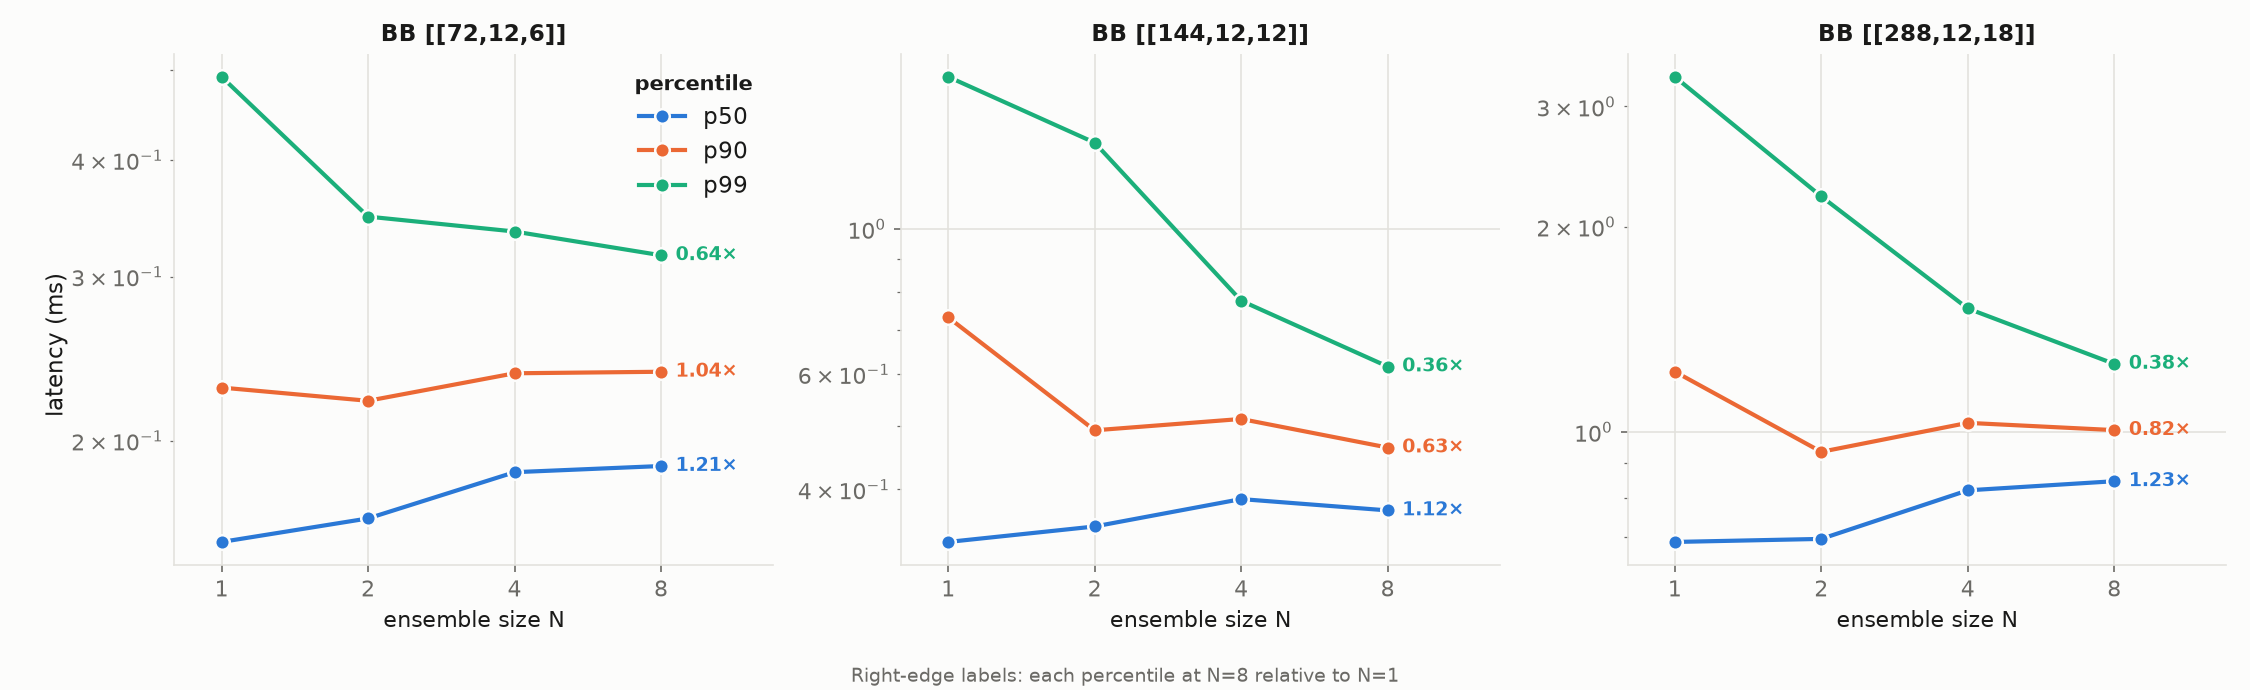
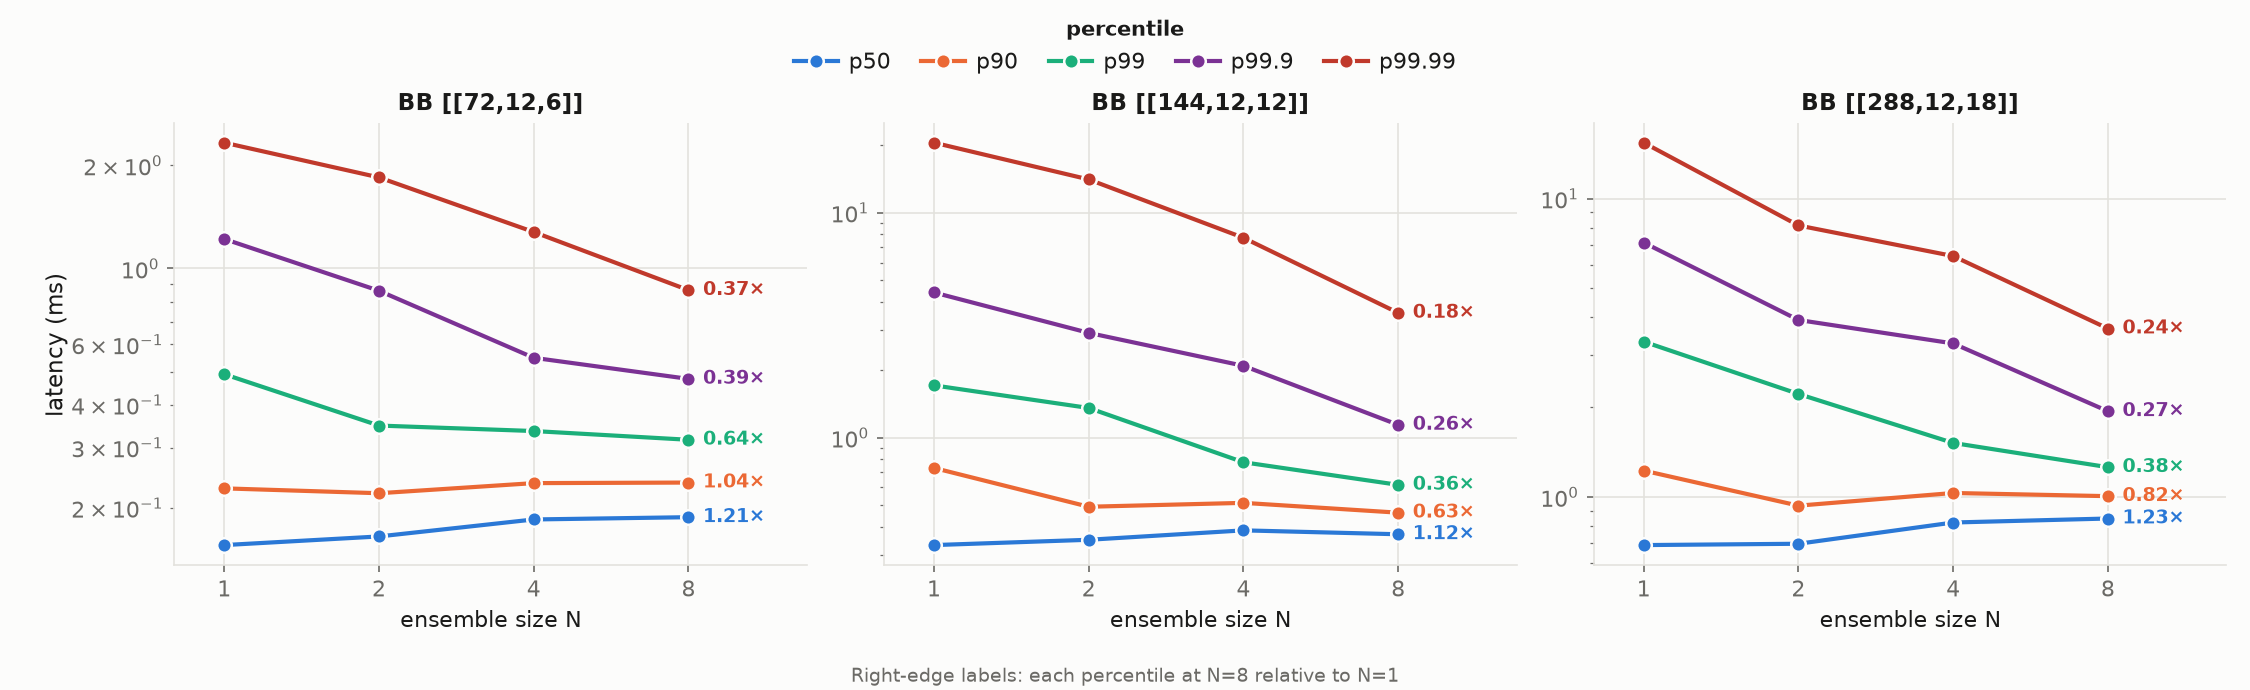
Addressed reviewer comments

diff --git a/docs/sphinx/examples_rst/qec/nv_qldpc_gamma_ensemble_user_guide.rst b/docs/sphinx/examples_rst/qec/nv_qldpc_gamma_ensemble_user_guide.rst
@@ -1,0 +1,108 @@
+.. _ensemble_gamma_user_guide:
+
+Improving Relay BP Decoding With Gamma Ensembles
+=================================================
+
+The NV-qLDPC Relay BP decoder supports ensembles of independent gamma distribution trajectories (N "lanes"), run in parallel on a single GPU. When any lane has satisfied the stopping criterion, then the decoder may exit early. This can lead to significantly improved decoding decoding performance as increased parallelism allows for faster exploration of decoding solutions, and therefore lower latency for hard-to-decode syndromes which may stall Relay BP. 
+
+While setting multiple lanes of ensembled gammas can reduce the number of Relay BP iterations needed to converge to a solution, it can also lead to increased time per iteration; each leg of Relay BP synchronizes between lanes to check for convergence. Multiple lanes share a fixed GPU allocation, so as the number of edges in the Tanner graph increases, the GPU eventually must serialize the execution of each lane at each iteration, and then block for every lane to complete. These competing effects offset each other to some extent, so the mean latency per iteration may or may not be lower than the un-ensembled mean latency. However, the main benefit of ensembling is that the decoder can accept the minimum number of iterations to converge over some lanes, which means that slow-converging lanes are less likely to dominate the overall decoding time. Thereforre, the distribution of decode latencies becomes narrower. This can in turn lead to substantially improved LER under hard deadline constraints, where decoding failures are dominated by deadline misses. We will see below examples of bivariate-bicycle codes (BB) seeing up to 50-90x improved logical error rate, depending on the code and deadline.
+
+The first experiment we perform is to investigate the competing effects of reducing the mean number of iterations to converge versus increasing the time per iteration; we build the Z-component of the circuit-level detector error model (DEM) (i.e. the Z-stabilizer detectors only) for the bivariate-bicycle (BB) codes ``[[72,12,6]]``, ``[[144,12,12]]`` and ``[[288,12,18]]`` and, for each, construct the decoder with ``gamma_ensemble_size`` set to N in {1, 2, 4, 8}. We then decode many sampled syndromes, timing each ``decode()`` call and reading back the number of Relay BP iterations the decoder used to converge:
+
+.. code-block:: python
+
+    import cudaq_qec as qec
+
+    # H, error_rates, syndromes come from a circuit-level DEM of the code
+    decoder = qec.get_decoder(
+        "nv-qldpc-decoder", H, error_rate_vec=error_rates,
+        use_sparsity=True, bp_method=3, composition=1, max_iterations=50,
+        gamma0=0.125, gamma_dist=[-0.24, 0.66], clip_value=200.0, repeatable=True,
+        proc_float="fp32", gamma_ensemble_size=N,    # sweep N in {1, 2, 4, 8}
+        srelay_config={"pre_iter": 1, "num_sets": 600,
+                       "stopping_criterion": "FirstConv"},
+        opt_results={"num_iter": True})              # return the iteration count
+
+    for syndrome in syndromes:
+        result = decoder.decode(syndrome)            # timed for the per-iteration cost
+        num_iter = result.opt_results["num_iter"]    # Relay BP iterations to converge
+
+Performance Comparison
+++++++++++++++++++++++
+
+All experiments below use the same circuit-level noise and decoder settings, and are run on a single GB200 using CUDA-Q QEC 0.7.0. The parameters used for each experiment are listed below.
+
+.. list-table:: Decoder and experiment parameters
+   :header-rows: 1
+   :widths: 32 68
+
+   * - Parameter
+     - Value
+   * - GPU
+     - NVIDIA GB200
+   * - Codes
+     - ``[[72,12,6]]``, ``[[144,12,12]]``, ``[[288,12,18]]`` (Z-component DEM)
+   * - Rounds ``r``
+     - 6, 12, 18 for ``[[72,12,6]]``, ``[[144,12,12]]``, ``[[288,12,18]]`` respectively
+   * - Noise model
+     - uniform circuit-level, ``p = 0.002`` 
+   * - Shots
+     - 150,000
+   * - ``bp_method``
+     - 3
+   * - ``composition``
+     - 1
+   * - ``gamma0``
+     - 0.125
+   * - ``gamma_dist``
+     - ``[-0.24, 0.66]`` (for ``[[72,12,6]]``, ``[[144,12,12]]``); ``[-0.161, 0.815]`` (for ``[[288,12,18]]``)
+   * - ``clip_value``
+     - 200.0
+   * - ``max_iterations``
+     - 50
+   * - ``use_sparsity``
+     - True
+   * - ``repeatable``
+     - True
+   * - ``proc_float``
+     - ``"fp32"``
+   * - ``pre_iter``
+     - 1
+   * - ``num_sets``
+     - 600
+   * - ``stopping_criterion``
+     - ``FirstConv``
+
+.. image:: ../../images/relaybp_gamma_ensemble_perf.png
+   :align: center
+   :alt: Iterations to converge, time per iteration, and mean latency versus ensemble size, for several DEMs
+
+As the ensemble size N grows, the median number of iterations to converge (left) falls for every code — more lanes explore more gamma sets in parallel, so the fastest-converging one wins sooner. At N = 8 the median iteration count drops to 0.67×–0.71× of its single-lane value across the three codes. The time per iteration (middle) rises with N — each lane's parity-check rows are spread over co-resident GPU blocks, so a lane must serially process more work per iteration — growing to 1.53×–1.66× at N = 8, largest for the ``[[288,12,18]]`` DEM. The net mean decode latency (right) combines the two effects; here the higher per-iteration cost roughly cancels the iteration savings, so mean latency stays close to its single-lane value at N = 8, ranging from 0.88× to 1.10×.
+
+Latency Distribution
+++++++++++++++++++++
+
+One of the benefits of ensembling is that the latency distribution becomes narrower, leading to more consistent latency for hard-to-decode syndromes. Using the same decoders as above, we now focus on the behavior of the 50th percentile, 90th percentile, and 99th percentile decoding latencies.
+
+.. image:: ../../images/relaybp_latency_percentiles.png
+   :align: center
+   :alt: Latency percentiles (p50, p90, p99.9, p99.99) versus ensemble size N, per code
+
+The worst-case (i.e. p99.99) latency improves with N for every code — at N = 8 it improves by ~2.70× for ``[[72,12,6]]``, ~5.55× for ``[[144,12,12]]`` and ~4.17× for ``[[288,12,18]]``. The median (p50) rises with N (by ~1.12×–1.23× at N = 8), as the per-iteration overhead is paid on decodes that would have converged quickly anyway. 
+
+Logical Error Rate Under Hard Deadlines
++++++++++++++++++++++++++++++++++++++++
+
+The narrower tail can improve logical error rates considerably for decoders under hard deadlines. Suppose each decode must finish within a wall-clock budget ``t``; a decode is a success only if it both finishes within ``t`` and returns the correct logical outcome, so the logical error rate under that deadline is ``LER(t) = P(latency > t or logical error)``. Using the same decoders as above, we record both the per-syndrome latency and whether the decoded logical is correct. The plot below shows the LER versus deadline for un-ensembled Relay BP (i.e. N = 1) and for each ensemble size N; each curve is measured over 150,000 sampled syndromes per configuration at the circuit-level noise strength given above (``p = 0.002``), using the ``FirstConv`` stopping criterion.
+
+.. image:: ../../images/relaybp_hard_deadline_ler.png
+   :align: center
+   :alt: Deadline vs LER — bicycle codes
+
+Ensembling contracts the latency tail for all three codes, resulting in substantially lower LER for certain deadlines: beyond a crossover at the tightest deadlines (where the higher per-iteration cost makes the larger ensembles slightly worse), a larger ensemble misses fewer deadlines at looser budgets and reaches a lower floor. The regime under which ensembling is beneficial for these codes depends on the code and deadline, and likely requires specific tuning based on the problem. Below is a plot of the factor by which each ensemble size lowers LER relative to un-ensembled Relay BP as a function of the deadline ``t``; values above 1 mean a lower LER than N = 1. 
+
+.. image:: ../../images/relaybp_ler_multiplier.png
+   :align: center
+   :alt: LER improvement multiplier over un-ensembled Relay BP versus hard deadline, per code
+
+At the tightest deadlines the larger ensembles are briefly worse (their higher per-iteration cost delays the fastest decodes), but past that crossover a larger ensemble lowers LER substantially — by up to ~41× for ``[[144,12,12]]`` and ~89× for ``[[288,12,18]]`` at deadlines of ~1-5 ms. For those two codes the multiplier then falls back toward N = 1 at loose deadlines, where both the ensemble and N = 1 reach their near-zero logical error floors; for ``[[72,12,6]]`` it settles at ~2×.

diff --git a/docs/sphinx/examples_rst/qec/examples.rst b/docs/sphinx/examples_rst/qec/examples.rst
@@ -11,7 +11,7 @@ Examples that illustrate how to use CUDA-QX for application development are avai
       Circuit-Level QEC <circuit_level_noise.rst>
       Decoding From Stim DEM Text <stim_dem_decoder.rst>
       Decoders <decoders.rst>
-      Improving Relay BP Decoding With Ensemble Gammas <nv_qldpc_ensemble_gamma_user_guide.rst>
+      Improving Relay BP Decoding With Gamma Ensembles <nv_qldpc_gamma_ensemble_user_guide.rst>
       DEM Sampling <dem_sampling.rst>
       Real-Time Decoding <realtime_decoding.rst>
       AI Predecoder with CUDA-Q Realtime <realtime_predecoder_pymatching.rst>
